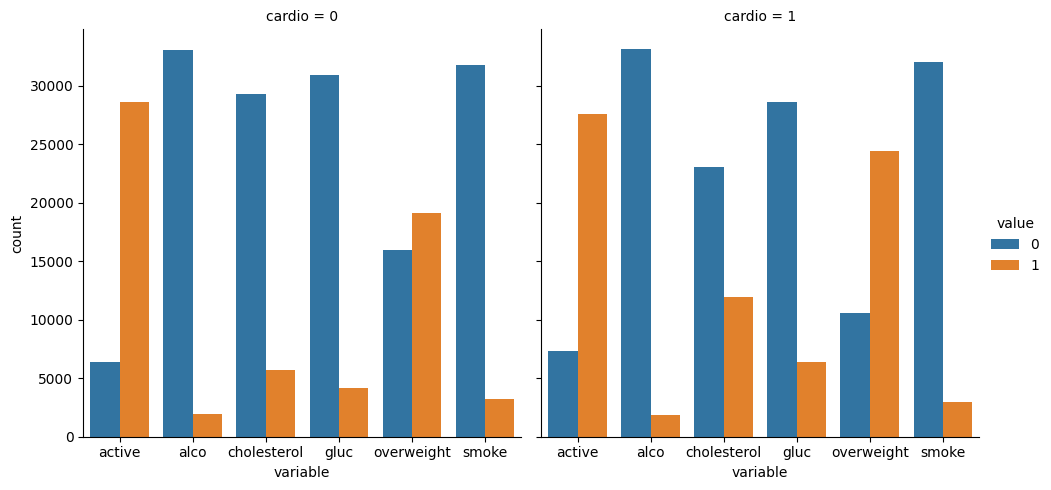
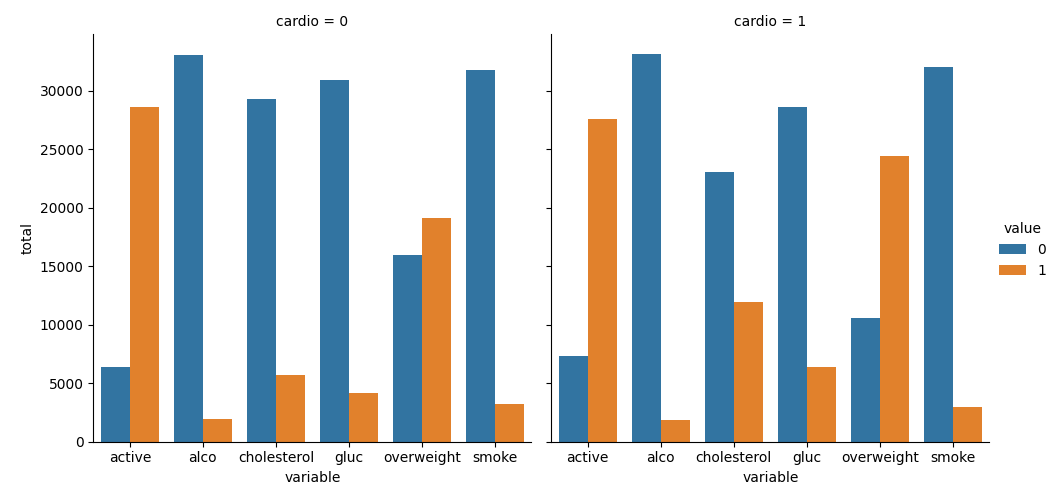
Fixed issues and updated project to ensure functionality and pass tests

diff --git a/medical_exam_data_visualizer/medical_data_visualizer.py b/medical_exam_data_visualizer/medical_data_visualizer.py
@@ -3,61 +3,40 @@ import seaborn as sns
 import matplotlib.pyplot as plt
 import numpy as np
 
-# 1
-df = pd.read_csv('medical_exam_data_visualizer/medical_examination.csv')
+df = pd.read_csv('medical_exam_data_visualizer\medical_examination.csv')
 
-# 2
 BMI = (df['weight']) / (df['height'] / 100)**2
 overweight_check = BMI > 25
 df['overweight'] = overweight_check.astype(int)
 
-# 3
 cholesterol_check = df['cholesterol'] != 1
 gluc_check = df['gluc'] != 1
 df['cholesterol'] = cholesterol_check.astype(int)
 df['gluc'] = gluc_check.astype(int)
 
 def draw_cat_plot():
-    df_cat = pd.melt(df, id_vars = ['cardio'], value_vars=['active', 'alco', 'cholesterol', 'gluc', 'overweight', 'smoke'],
-                 var_name='variable', value_name='value')
-    fig = sns.catplot(x='variable', hue='value', col='cardio', data=df_cat, kind='count')
+    df_cat = pd.melt(df, id_vars = ['cardio'], value_vars=['active', 'alco', 'cholesterol', 'gluc', 'overweight', 'smoke'])
+    df_cat['total']= 1
+    df_cat = df_cat.groupby(['cardio','variable','value'], as_index = False).count()
+    fig = sns.catplot(x='variable', y = 'total', hue='value', col='cardio', data=df_cat, kind='bar')
+    fig = fig.figure
     fig.savefig('catplot.png')
     return fig
 
-# filter_1 = df['height'] >= df['height'].quantile(0.025)
-# filter_2 = df['height'] <= df['height'].quantile(0.975)
-# filter_3 = df['weight'] >= df['weight'].quantile(0.025)
-# filter_3 = df['weight'] <= df['weight'].quantile(0.975)
-# filter = filter_1 & filter_2 & filter_3 & filter_4
-# df_cleaned_1 = df[filter]
-
 # 10
 def draw_heat_map():
-    # 11
+
     filter_1 = df['height'] >= df['height'].quantile(0.025)
     filter_2 = df['height'] <= df['height'].quantile(0.975)
     filter_3 = df['weight'] >= df['weight'].quantile(0.025)
     filter_4 = df['weight'] <= df['weight'].quantile(0.975)
-    filter = filter_1 & filter_2 & filter_3 & filter_4
-    df_heat = df[filter]
+    df_filter = filter_1 & filter_2 & filter_3 & filter_4
+    df_heat = df[df_filter]
 
-    # 12
     corr = df_heat.corr()
-
-    # 13
-    mask = np.triu(np.ones_like(corr, dtype=bool))
-
-
-    # 14
-    fig, ax = plt.subplots(figsize=(8, 6))
-    sns.heatmap(corr, mask = mask, ax=ax, fmt='.1f', annot=True, cmap = 'coolwarm')
-
-    # 15
-
-
-
-    # 16
+    mask = np.triu(corr)
+    fig, ax = plt.subplots(figsize=(8, 8))
+    sns.heatmap(corr, linewidths =1, square = True, ax=ax, mask = mask, fmt='.1f', annot=True)
+    fig = fig.figure
     fig.savefig('heatmap.png')
     return fig
-
-print(draw_heat_map())

diff --git a/medical_exam_data_visualizer/test_module.py b/medical_exam_data_visualizer/test_module.py
@@ -36,7 +36,7 @@ class HeatMapTestCase(unittest.TestCase):
     def test_heat_map_labels(self):
         actual = []
         for label in self.ax.get_xticklabels():
-          actual.append(label.get_text())
+            actual.append(label.get_text())
         expected = ['id', 'age', 'sex', 'height', 'weight', 'ap_hi', 'ap_lo', 'cholesterol', 'gluc', 'smoke', 'alco', 'active', 'cardio', 'overweight']
         self.assertEqual(actual, expected, "Expected heat map labels to be 'id', 'age', 'sex', 'height', 'weight', 'ap_hi', 'ap_lo', 'cholesterol', 'gluc', 'smoke', 'alco', 'active', 'cardio', 'overweight'.")
     
@@ -45,6 +45,12 @@ class HeatMapTestCase(unittest.TestCase):
         print(actual)
         expected = ['0.0', '0.0', '-0.0', '0.0', '-0.1', '0.5', '0.0', '0.1', '0.1', '0.3', '0.0', '0.0', '0.0', '0.0', '0.0', '0.0', '0.2', '0.1', '0.0', '0.2', '0.1', '0.0', '0.1', '-0.0', '-0.1', '0.1', '0.0', '0.2', '0.0', '0.1', '-0.0', '-0.0', '0.1', '0.0', '0.1', '0.4', '-0.0', '-0.0', '0.3', '0.2', '0.1', '-0.0', '0.0', '0.0', '-0.0', '-0.0', '-0.0', '0.2', '0.1', '0.1', '0.0', '0.0', '0.0', '0.0', '0.3', '0.0', '-0.0', '0.0', '-0.0', '-0.0', '-0.0', '0.0', '0.0', '-0.0', '0.0', '0.0', '0.0', '0.2', '0.0', '-0.0', '0.2', '0.1', '0.3', '0.2', '0.1', '-0.0', '-0.0', '-0.0', '-0.0', '0.1', '-0.1', '-0.1', '0.7', '0.0', '0.2', '0.1', '0.1', '-0.0', '0.0', '-0.0', '0.1']
         self.assertEqual(actual, expected, "Expected different values in heat map.")
+
+class HeatMapTestCase(unittest.TestCase):
+    def setUp(self):
+        self.fig = medical_data_visualizer.draw_heat_map()
+        self.ax = self.fig.axes[0]
+        self.maxDiff = None
 
 if __name__ == "__main__":
     unittest.main()
